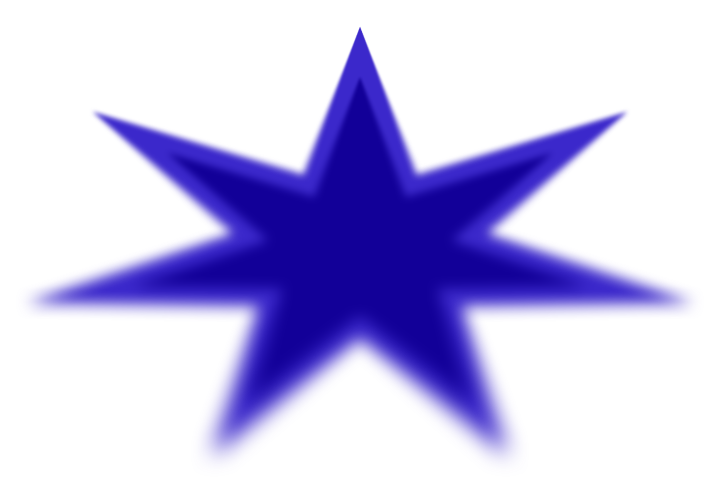
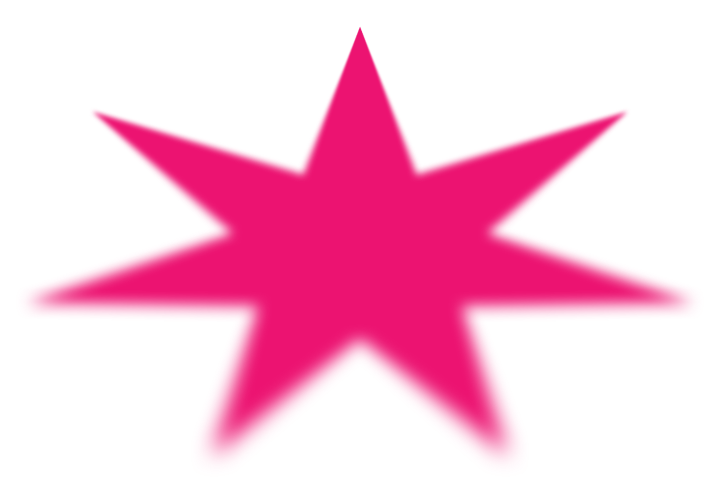
change some  stars

diff --git a/src/App.jsx b/src/App.jsx
@@ -19,8 +19,6 @@ import star6 from './assets/Star6.png';
 import star7 from './assets/Star7.png';
 import star8 from './assets/Star8.png';
 import star9 from './assets/Star9.png';
-import star10 from './assets/Star10.png';
-import star11 from './assets/Star11.png';
 
 function App() {
   // ==================== STATE ====================
@@ -35,7 +33,7 @@ function App() {
 
   // Смена звезды
   const [currentStarIndex, setCurrentStarIndex] = useState(0);
-  const stars = [star1, star2, star3, star4, star5, star6, star7, star8, star9, star10, star11];
+  const stars = [star1, star2, star3, star4, star5, star6, star7, star8, star9];
 
   // Выбор периода (по умолчанию — текущий месяц)
   const [selectedPeriod, setSelectedPeriod] = useState(() => {
